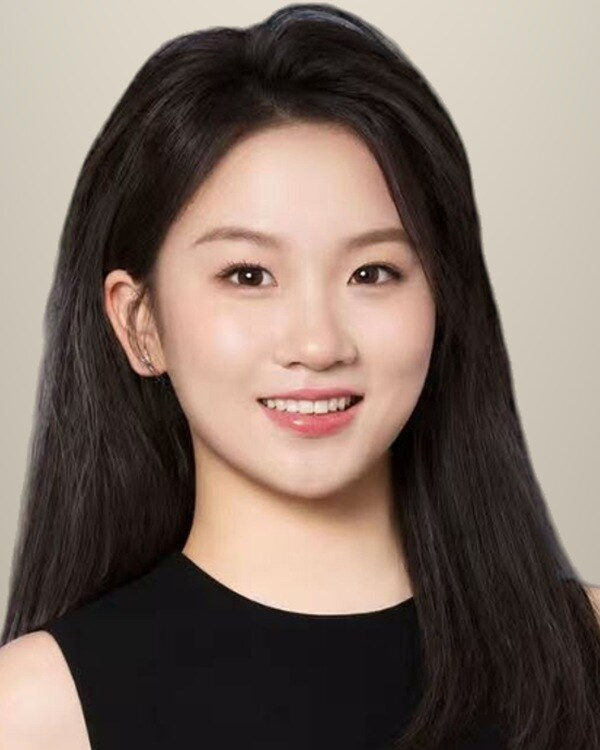
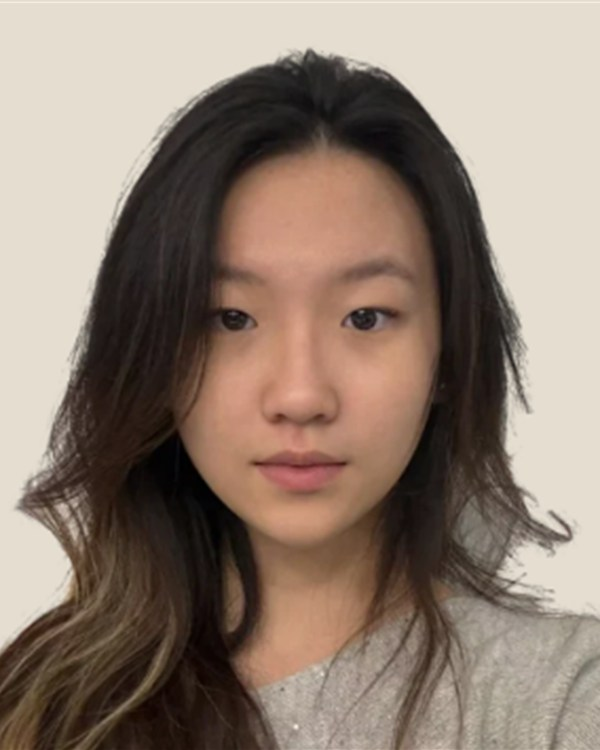
Margaret Yang: new portrait (team, home, partners)

diff --git a/team.html b/team.html
@@ -293,7 +293,7 @@
             <blockquote class="quote">I love problem-solving, learning new skills, and connecting with others to explore what’s possible beyond our robot!</blockquote>
           </article>
           <article class="member" id="margaret-yang">
-            <img class="portrait" src="images/team/margaret.jpg" width="600" height="750" loading="lazy" alt="Margaret Yang">
+            <img class="portrait" src="images/team/margaret.jpg?v=2" width="600" height="750" loading="lazy" alt="Margaret Yang">
             <h3>Margaret Yang</h3>
             <p class="exp">Rookie</p>
             <div class="leads"><span class="lead-tag">Head of Sponsorship</span></div>

diff --git a/index.html b/index.html
@@ -405,7 +405,7 @@
           <span class="strip-label"><b>Reynah Chowrira</b><span>Outreach Lead</span></span>
         </a></li>
         <li><a class="strip-card" href="team.html#margaret-yang">
-          <img src="images/team/margaret.jpg" width="600" height="750" loading="lazy" alt="">
+          <img src="images/team/margaret.jpg?v=2" width="600" height="750" loading="lazy" alt="">
           <span class="strip-label"><b>Margaret Yang</b><span>Head of Sponsorship</span></span>
         </a></li>
         <li><a class="strip-card" href="team.html#tucker-cashel">

diff --git a/partners.html b/partners.html
@@ -115,7 +115,7 @@
             <p class="supported">Supported by <b data-supporters>VulcanForms, Latent Tech, SolidWorks, Weston Owl and WEEFC</b></p>
           </div>
           <div class="contact-person">
-            <img src="images/team/margaret.jpg" width="600" height="750" alt="">
+            <img src="images/team/margaret.jpg?v=2" width="600" height="750" alt="">
             <div>
               <b>Margaret Yang</b>
               <span>Head of sponsorship</span>

diff --git a/team.html.md b/team.html.md
@@ -120,7 +120,7 @@ Outreach Lead
 
 ### Margaret Yang
 
-![Margaret Yang](https://mercury26413.org/images/team/margaret.jpg)
+![Margaret Yang](https://mercury26413.org/images/team/margaret.jpg?v=2)
 
 Rookie
 
